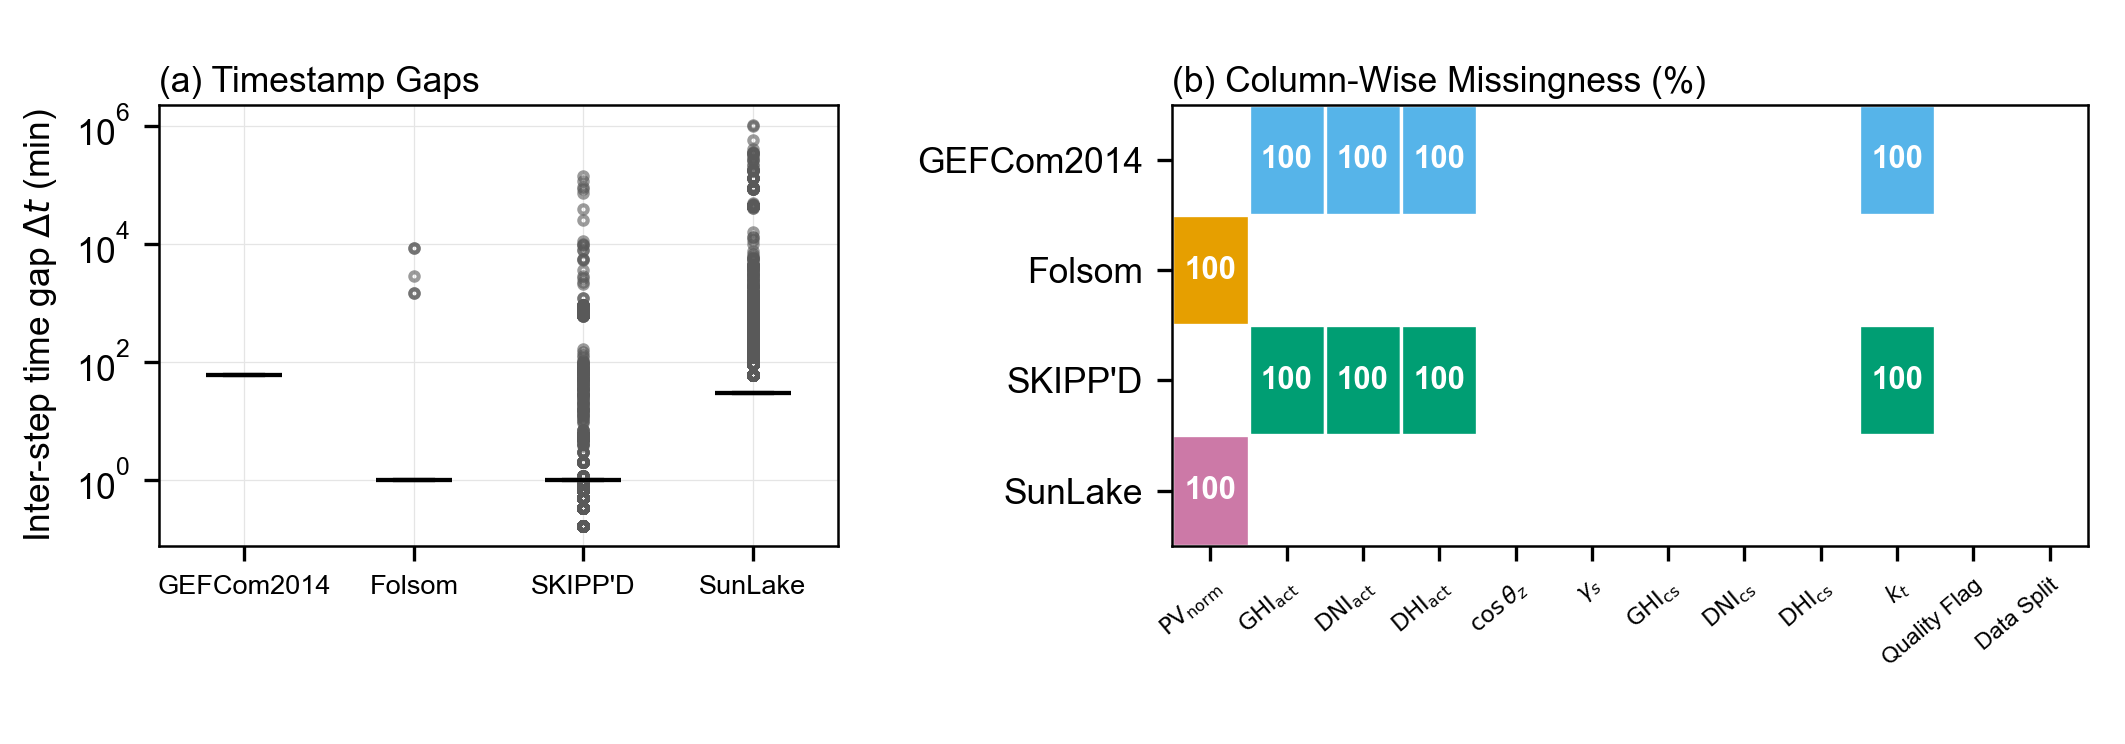
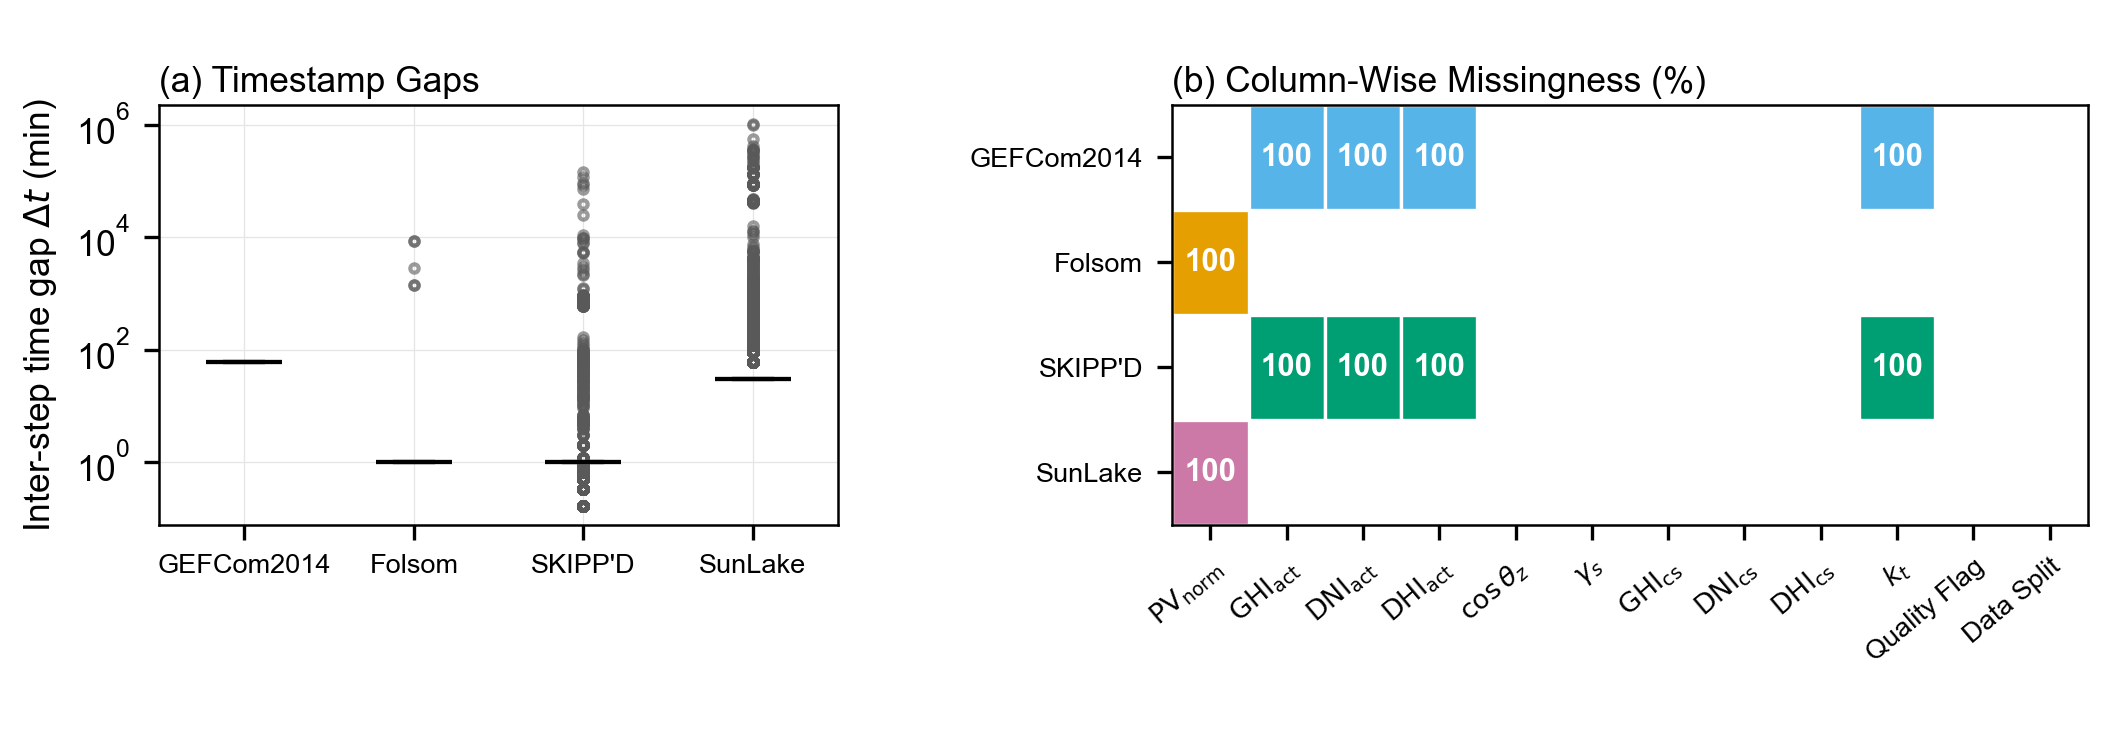
viz(essd-fig4): (b) x labels back up to 6.5pt (space allows); dataset-name size harmonized across (a) x-axis and (b) y-axis (both 6.5pt)

diff --git a/scripts/plot_essd_figures.py b/scripts/plot_essd_figures.py
@@ -376,9 +376,11 @@ def fig4() -> None:
                 ax2.text(j, i, f"{v:.0f}", ha="center", va="center",
                          fontsize=TEXT_SIZE_PT - 1.5, color="black")
     ax2.set_xticks(range(len(cols)), [ACADEMIC_LABELS.get(c, c) for c in cols],
-                   rotation=40, ha="right", fontsize=TEXT_SIZE_PT - 3,
-                   rotation_mode="anchor")   # 5.5 pt + anchor: labels fully inside
-    ax2.set_yticks(range(len(DS_ORDER)), [DS_LABELS[d] for d in DS_ORDER])
+                   rotation=40, ha="right", fontsize=TEXT_SIZE_PT - 2,
+                   rotation_mode="anchor")   # 6.5 pt + anchor: labels fully inside
+    # (b) y dataset labels sized to MATCH panel (a)'s x dataset labels.
+    ax2.set_yticks(range(len(DS_ORDER)), [DS_LABELS[d] for d in DS_ORDER],
+                   fontsize=TEXT_SIZE_PT - 2)
     ax2.grid(False)
     ax2.set_xlim(-0.5, len(cols) - 0.5)
     ax2.set_ylim(len(DS_ORDER) - 0.5, -0.5)
